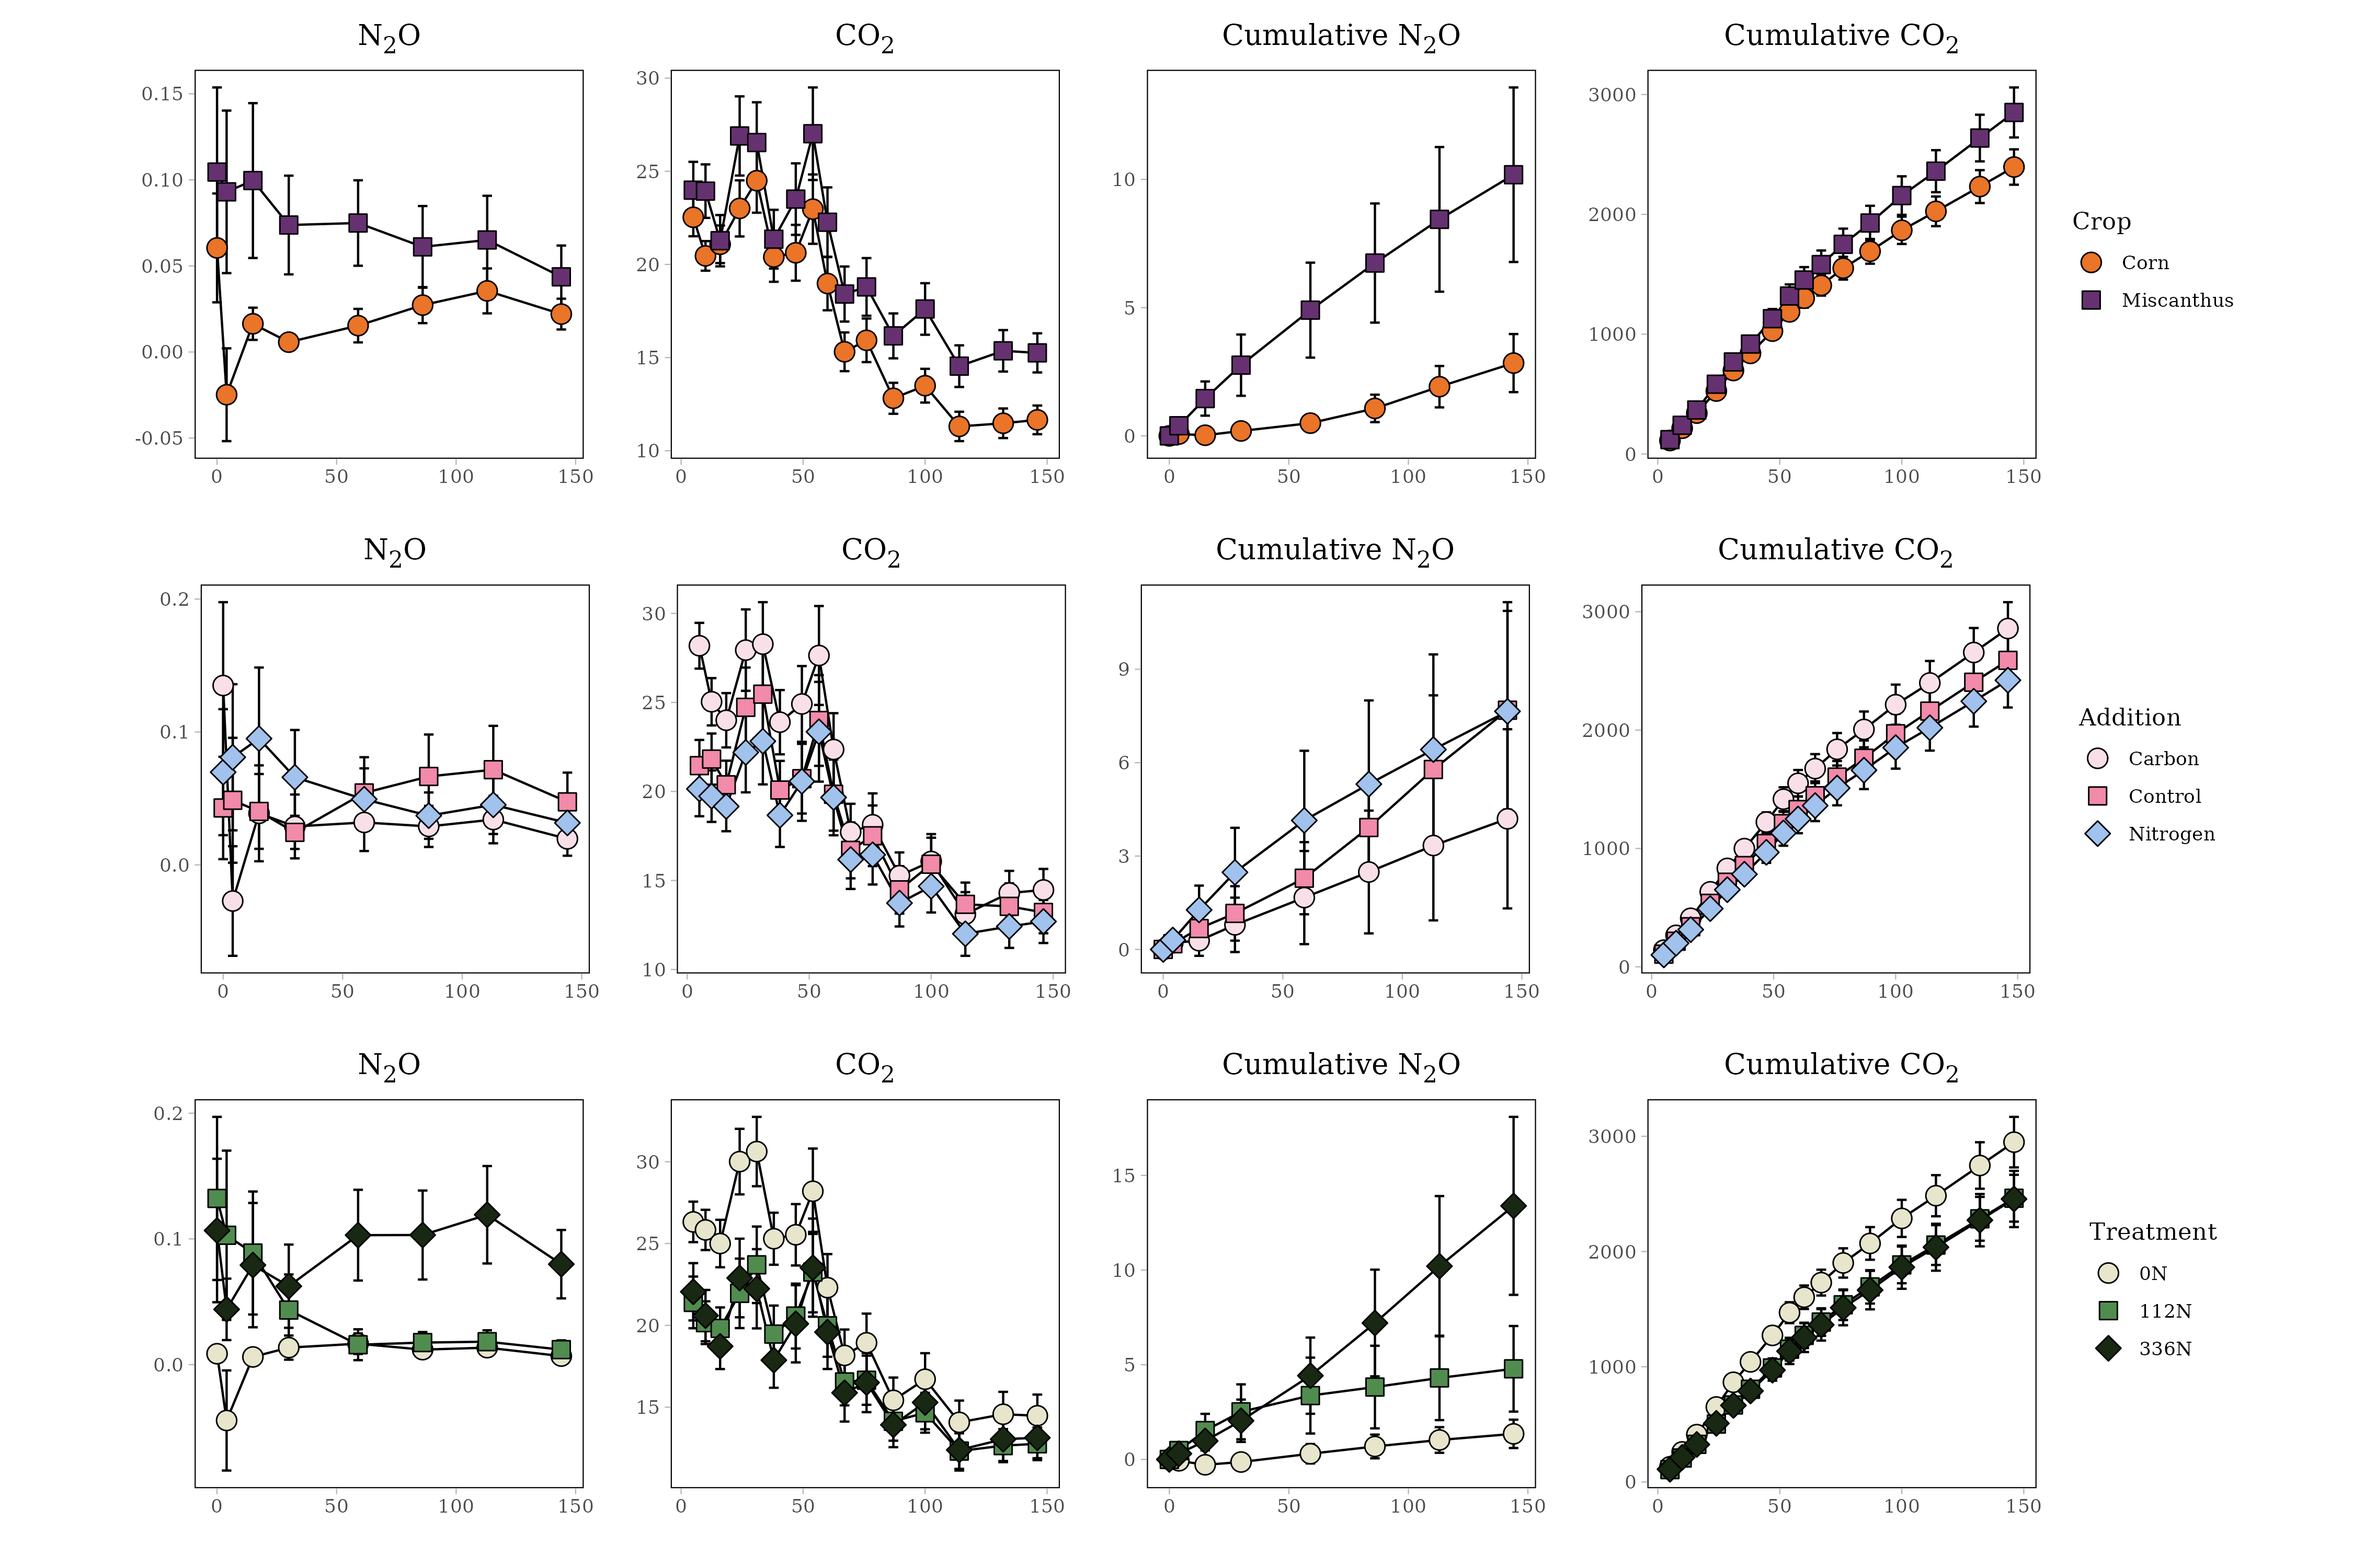
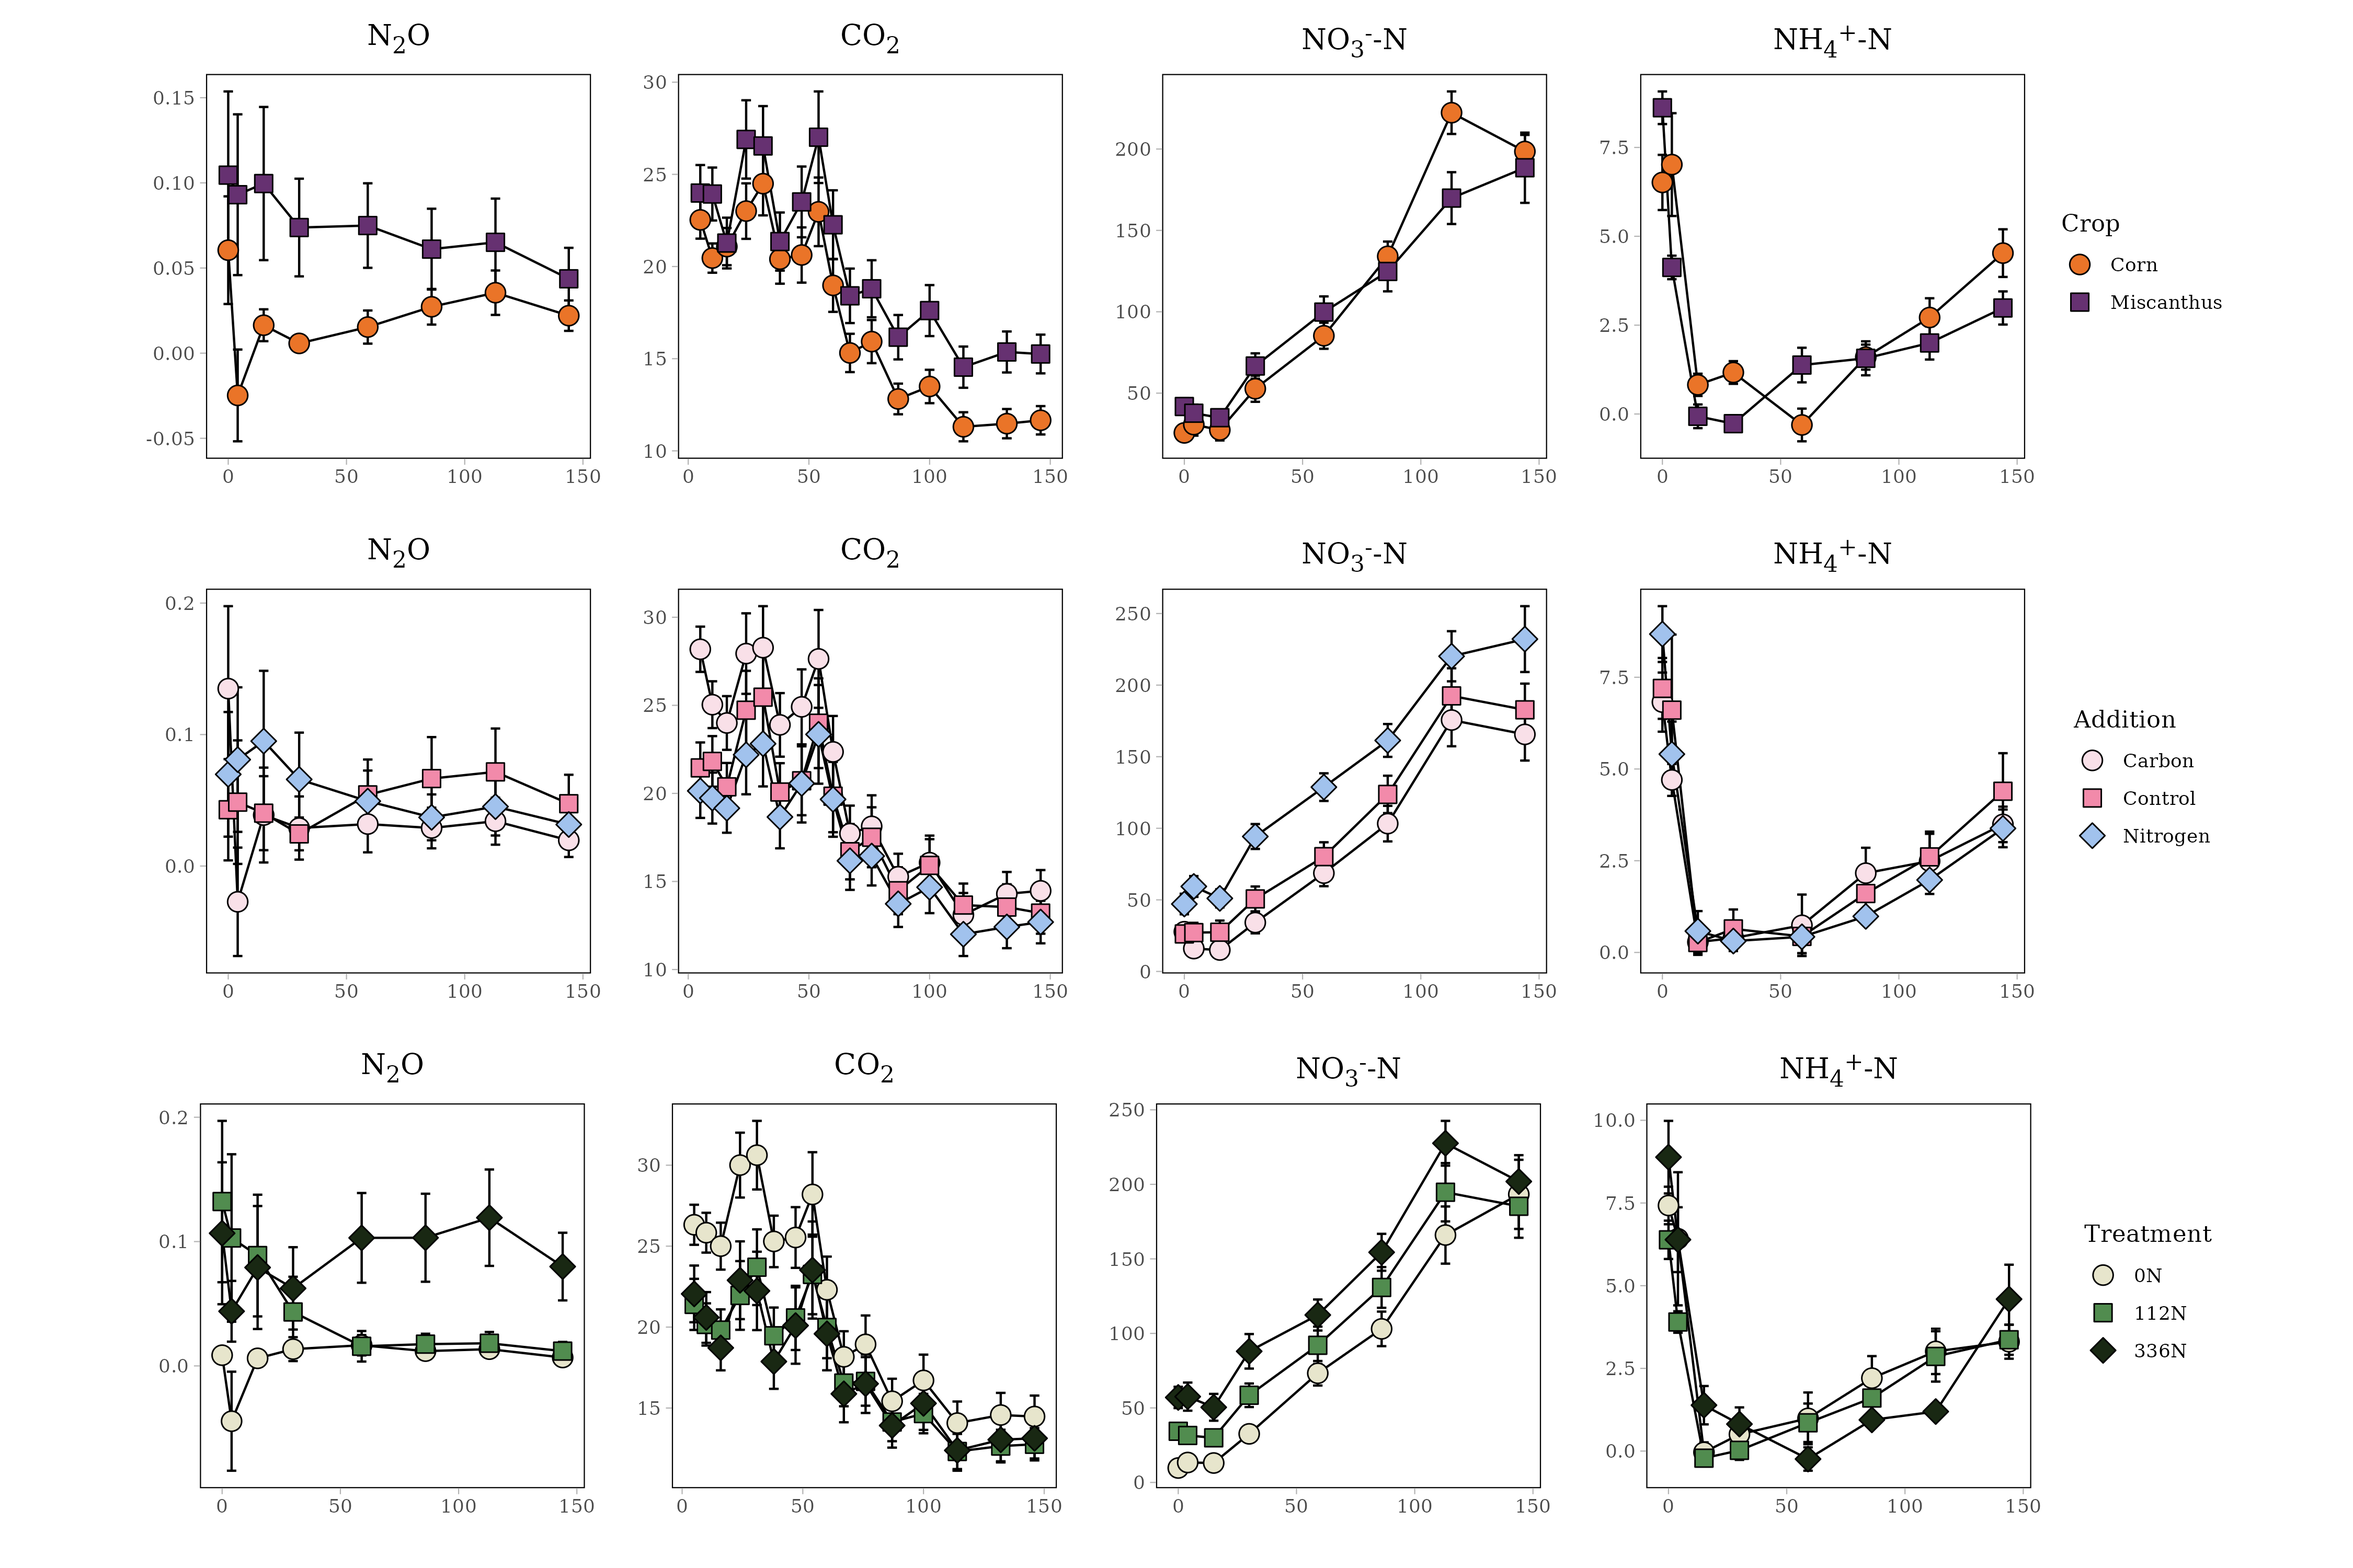
Separate cumulative/daily figures

diff --git a/README.md b/README.md
@@ -9,7 +9,8 @@ Project repo for analysis done on the crop priming data for the LAMPS incubation
         * `n_anova_results.long.csv` and `n_anova_results.wide.csv`: ANOVA results for NH4, NO3, CO2, and N2O (daily and cumulative), as well as  mineralization and nitrification daily rates (absolute and relative), against Day, Treatment, Addition, and N Rate.
 * `figures`
     * `n_figures`
-        * [`n_line_plots.png`](figures/n_figures/n_line_plots.png) - daily and cumulative CO2 and N2O emissions by treatment.
+        * [`n_line_plots.png`](figures/n_figures/n_line_plots.png) - daily GHG and N by treatment.
+        * ['n_line_plots_cumulative.png'](figures/n_figures/n_line_plots_cumulative.png) - cumulative GHG and N by treatment.
         * [net_min_nitr_abs_rel.png](figures/n_figures/net_min_nitr_abs_rel.png) - nitrification and mineralization rates (relative to previous sample and relative to initial sample) by treatment.
 
 ## Repeating the analysis
